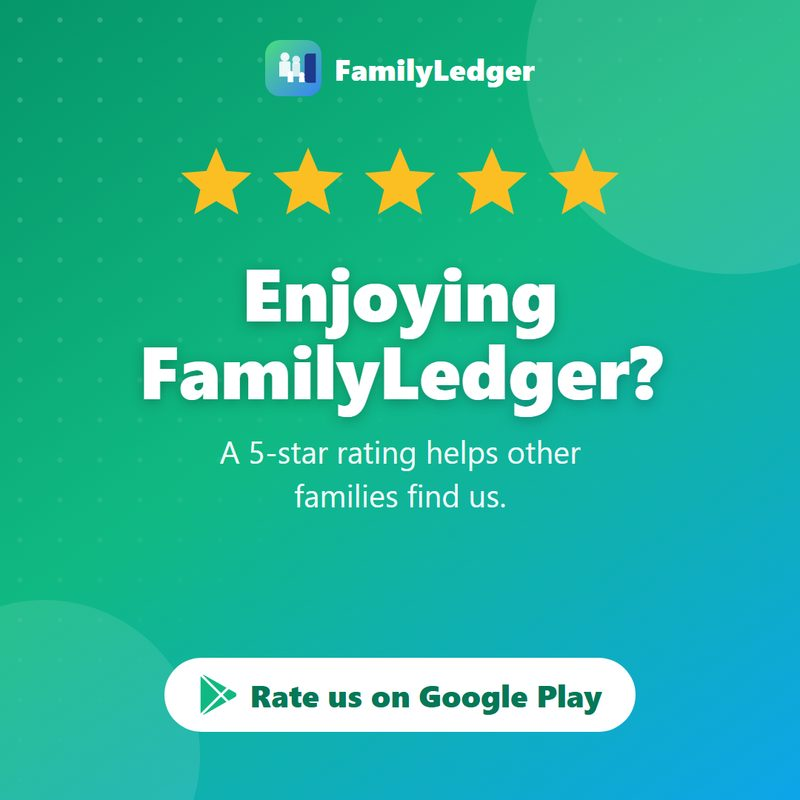
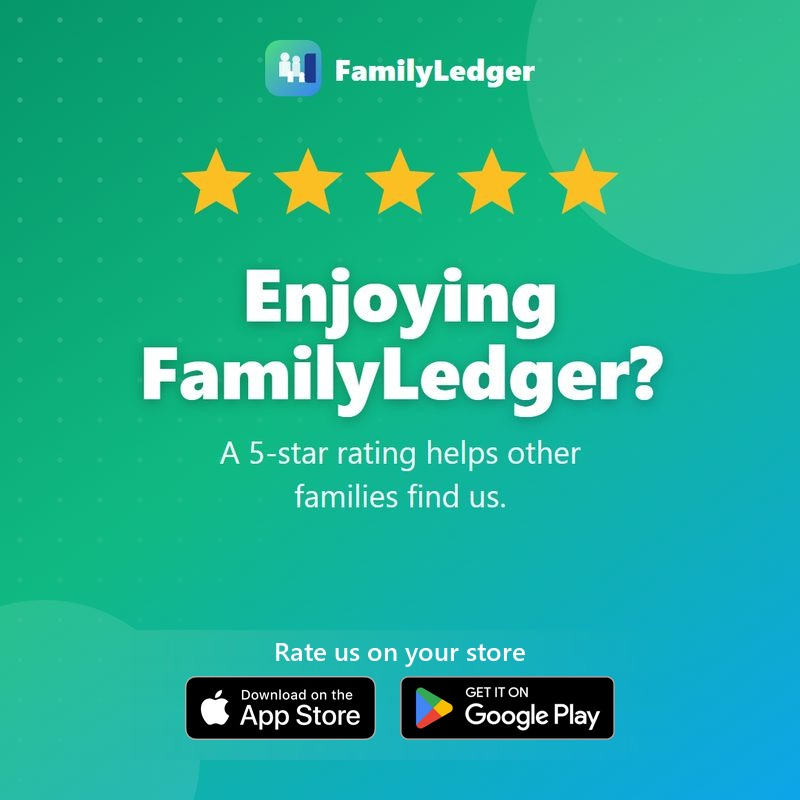
Rate-us broadcast: add App Store alongside Google Play (picture, message, store-aware picture link, iOS rating fallback); to-do/habit: choose notification or alarm for habits

Changed region(s): [[0.1875, 0.7812, 0.8125, 0.9375]]

diff --git a/src/screens/ToDoList.tsx b/src/screens/ToDoList.tsx
@@ -20,6 +20,7 @@ import HabitTracker from '../components/HabitTracker';
 import FrequencyPicker from '../components/FrequencyPicker';
 import {
   FrequencyConfig,
+  nextOccurrenceAfter,
   firstOccurrenceOnOrAfter,
   describeFrequency,
   frequencyConfigFromFields,
@@ -246,6 +247,23 @@ export default function ToDoList() {
     const alarms: { id: string; text: string; reminderAt: string }[] = [];
     myTodosValue.docs.forEach((d) => {
       const todo = { id: d.id, ...d.data() } as any;
+      // A personal habit set to "alarm": it rings a set time before each occurrence. The next two weeks of occurrences are armed at once, so
+      // it keeps ringing even if the app is not opened (the server's habit push is skipped for these, see processHabitReminders).
+      const habitAlarm = todo.recurring && todo.recurringActive !== false && !todo.groupId && todo.reminderStyle === 'alarm'
+        && todo.reminderOffsetMinutes && todo.nextRunDate;
+      if (habitAlarm) {
+        cancelLocalTodoReminder(todo.id);
+        let occ = new Date(todo.nextRunDate);
+        for (let i = 0; i < 14; i++) {
+          if (!(i === 0 && todo.done)) { // this occurrence is already ticked off: no reminder for it
+            const at = new Date(occ.getTime() - todo.reminderOffsetMinutes * 60000).toISOString();
+            if (canRingTodoAlarm()) alarms.push({ id: `${todo.id}_h${i}`, text: todo.text, reminderAt: at });
+            else if (new Date(at).getTime() > Date.now()) { scheduleLocalTodoReminder({ id: todo.id, text: todo.text, reminderAt: at }); break; }
+          }
+          occ = nextOccurrenceAfter(todo as FrequencyConfig, occ);
+        }
+        return;
+      }
       const eligible = !todo.done && !todo.groupId && todo.reminderAt;
       if (eligible && todo.reminderStyle === 'alarm' && canRingTodoAlarm()) {
         alarms.push({ id: todo.id, text: todo.text, reminderAt: todo.reminderAt });
@@ -258,6 +276,32 @@ export default function ToDoList() {
     });
     syncTodoAlarms(alarms);
   }, [myTodosValue]);
+
+  // how a reminder arrives: a quiet notification or an alarm that rings. Used for a to-do's reminder and for a habit's "remind me before".
+  const renderStyleChooser = () => (
+  <div className="mt-3 rounded-2xl bg-slate-50 p-2.5">
+    <p className="text-[10px] font-black uppercase tracking-[0.1em] text-slate-500 mb-1.5 px-0.5">How should it remind you?</p>
+    {groupId ? (
+      <p className="text-[11.5px] text-slate-600 px-0.5">A shared to-do reminds everyone with a notification. Alarms are for tasks that are just yours.</p>
+    ) : (
+      <>
+        <div className="grid grid-cols-2 gap-2">
+          <button type="button" onClick={() => setReminderStyle('notification')} className={clsx('rounded-xl border-2 px-3 py-2 text-left transition-all active:scale-95', reminderStyle === 'notification' ? 'border-[#22c1a5] bg-white' : 'border-transparent bg-white/60')}>
+            <span className="block text-sm font-black text-primary">🔔 Notification</span>
+            <span className="block text-[10.5px] text-slate-500 leading-snug">A quiet nudge on your phone</span>
+          </button>
+          <button type="button" onClick={() => setReminderStyle('alarm')} className={clsx('rounded-xl border-2 px-3 py-2 text-left transition-all active:scale-95', reminderStyle === 'alarm' ? 'border-orange-400 bg-orange-50' : 'border-transparent bg-white/60')}>
+            <span className="block text-sm font-black text-primary">⏰ Alarm</span>
+            <span className="block text-[10.5px] text-slate-500 leading-snug">Rings until you stop or snooze it</span>
+          </button>
+        </div>
+        {reminderStyle === 'alarm' && (
+          <p className="text-[11px] text-slate-600 mt-1.5 px-0.5">{canRingTodoAlarm() ? 'Rings like an alarm clock with Snooze and Dismiss, even when the phone is on silent.' : 'Alarms ring on Android phones. Here you will get a notification instead.'}</p>
+        )}
+      </>
+    )}
+  </div>
+  );
 
   const resetForm = () => {
     setEditingId(null);
@@ -340,7 +384,7 @@ export default function ToDoList() {
           dueDate,
           reminderSent: false,
           groupId: groupId || null,
-          reminderStyle: reminderAt && !groupId ? reminderStyle : null,
+          reminderStyle: (reminderAt || (recurring && reminderOffsetMinutes)) && !groupId ? reminderStyle : null,
           images,
           notes: trimmedNotes || null,
           ...recurringFields,
@@ -356,7 +400,7 @@ export default function ToDoList() {
           dueDate,
           reminderSent: false,
           groupId: groupId || null,
-          ...(reminderAt && !groupId ? { reminderStyle } : {}),
+          ...((reminderAt || (recurring && reminderOffsetMinutes)) && !groupId ? { reminderStyle } : {}),
           createdAt: new Date().toISOString(),
           ...(images.length > 0 ? { images } : {}),
           ...(trimmedNotes ? { notes: trimmedNotes } : {}),
@@ -780,28 +824,7 @@ export default function ToDoList() {
 
                       {/* how the reminder arrives */}
                       {remindKind !== 'none' && (
-                        <div className="mt-3 rounded-2xl bg-slate-50 p-2.5">
-                          <p className="text-[10px] font-black uppercase tracking-[0.1em] text-slate-500 mb-1.5 px-0.5">How should it remind you?</p>
-                          {groupId ? (
-                            <p className="text-[11.5px] text-slate-600 px-0.5">A shared to-do reminds everyone with a notification. Alarms are for tasks that are just yours.</p>
-                          ) : (
-                            <>
-                              <div className="grid grid-cols-2 gap-2">
-                                <button type="button" onClick={() => setReminderStyle('notification')} className={clsx('rounded-xl border-2 px-3 py-2 text-left transition-all active:scale-95', reminderStyle === 'notification' ? 'border-[#22c1a5] bg-white' : 'border-transparent bg-white/60')}>
-                                  <span className="block text-sm font-black text-primary">🔔 Notification</span>
-                                  <span className="block text-[10.5px] text-slate-500 leading-snug">A quiet nudge on your phone</span>
-                                </button>
-                                <button type="button" onClick={() => setReminderStyle('alarm')} className={clsx('rounded-xl border-2 px-3 py-2 text-left transition-all active:scale-95', reminderStyle === 'alarm' ? 'border-orange-400 bg-orange-50' : 'border-transparent bg-white/60')}>
-                                  <span className="block text-sm font-black text-primary">⏰ Alarm</span>
-                                  <span className="block text-[10.5px] text-slate-500 leading-snug">Rings until you stop or snooze it</span>
-                                </button>
-                              </div>
-                              {reminderStyle === 'alarm' && (
-                                <p className="text-[11px] text-slate-600 mt-1.5 px-0.5">{canRingTodoAlarm() ? 'Rings like an alarm clock with Snooze and Dismiss, even when the phone is on silent.' : 'Alarms ring on Android phones. Here you will get a notification instead.'}</p>
-                              )}
-                            </>
-                          )}
-                        </div>
+                        renderStyleChooser()
                       )}
                     </>
                   )}
@@ -854,6 +877,7 @@ export default function ToDoList() {
                               <option value="1440">{t('todo.remind1day')}</option>
                             </select>
                           </div>
+                          {reminderOffsetMinutes ? renderStyleChooser() : null}
                         </>
                       )}
                     </div>

diff --git a/src/components/BroadcastCard.tsx b/src/components/BroadcastCard.tsx
@@ -5,6 +5,8 @@ import BroadcastVideo from './BroadcastVideo';
 import BroadcastReactions from './BroadcastReactions';
 import BroadcastShare from './BroadcastShare';
 import type { BroadcastVia } from '../lib/broadcastTrack';
+import { isIosApp } from '../lib/platform';
+import { APP_STORE_URL } from '../lib/broadcastTemplates';
 
 // The broadcast window itself (title, message, video, pictures, follow buttons, Close). Shared by
 // BroadcastBanner (the automatic popup) and BroadcastReplay (watch again), so both look identical.
@@ -23,11 +25,11 @@ export type BroadcastContent = {
 const URL_PATTERN = /(https?:\/\/[^\s]+)/g;
 const OWN_HOST = 'familyledger.thirteenapps.com';
 
-function friendlyLabel(url: string): string {
+function friendlyLabel(url: string, rating = false): string {
   if (url.includes('instagram.com')) return 'Instagram: @family.ledger';
   if (url.includes('facebook.com')) return 'Facebook: Family Ledger';
   if (url.includes('play.google.com')) return 'Rate us on Google Play';
-  if (url.includes('apps.apple.com')) return 'Get FamilyLedger on the App Store';
+  if (url.includes('apps.apple.com')) return rating ? 'Rate us on the App Store' : 'Get FamilyLedger on the App Store';
   if (url.includes(OWN_HOST) && url.includes('/feedback')) return 'Send us your feedback';
   return url.replace(/^https?:\/\/(www\.)?/, '');
 }
@@ -56,7 +58,7 @@ export default function BroadcastCard({ broadcast, onClose, openLink, closeLabel
       return (
         <React.Fragment key={i}>
           <button type="button" onClick={() => openLink(url)} className="text-primary font-bold underline underline-offset-2 text-left break-all">
-            {friendlyLabel(url)}
+            {friendlyLabel(url, /rat(e|ing)/i.test(broadcast.title || ''))}
           </button>
           {trailing}
         </React.Fragment>
@@ -122,7 +124,9 @@ export default function BroadcastCard({ broadcast, onClose, openLink, closeLabel
         {broadcast.images && broadcast.images.length > 0 && (
           <div className="space-y-3">
             {broadcast.images.map((src, idx) => {
-              const link = broadcast.imageLinks?.[idx];
+              let link = broadcast.imageLinks?.[idx];
+              // a picture that links to a store opens the store of the phone it is shown on
+              if (link && isIosApp() && link.includes('play.google.com')) link = APP_STORE_URL;
               const picture = <img src={src} alt="" className="w-full rounded-2xl border border-border-subtle object-cover" />;
               // a picture with a link opens it when tapped
               return link ? (

diff --git a/src/lib/broadcastTemplates.ts b/src/lib/broadcastTemplates.ts
@@ -162,11 +162,12 @@ Team FamilyLedger`,
     id: 'rate',
     label: 'Ask for a rating',
     emoji: '⭐',
-    hint: 'Asks for a 5-star rating on Google Play, and for feedback first if something is wrong. One picture.',
+    hint: 'Asks for a 5-star rating on the App Store or Google Play, and for feedback first if something is wrong. One picture with both store badges; tapping it opens the store of the phone.',
     title: 'Enjoying FamilyLedger? Rate us ⭐',
-    message: `A 5-star rating on Google Play helps other families find us.
+    message: `A 5-star rating helps other families find us.
 
-⭐ ${PLAY_URL}
+🍎 iPhone: ${APP_STORE_URL}
+🤖 Android: ${PLAY_URL}
 
 It takes about 10 seconds. If something isn't right, please tell us first and we'll fix it quickly: ${FEEDBACK_URL}
 

diff --git a/server.ts b/server.ts
@@ -3030,6 +3030,8 @@ async function processHabitReminders(db: Firestore, habitDocs: FirebaseFirestore
     const todo = d.data();
     if (todo.recurringActive === false) return false;
     if (!todo.reminderOffsetMinutes || !todo.nextRunDate || todo.habitReminderSent) return false;
+    // a personal habit set to "alarm" rings on the phone itself (ToDoList.tsx arms it), so it gets no push on top
+    if (todo.reminderStyle === 'alarm' && !todo.groupId) return false;
     const dueAt = new Date(todo.nextRunDate);
     if (dueAt <= now) return false; // already due — processRecurringTodos owns this occurrence now
     return new Date(dueAt.getTime() - todo.reminderOffsetMinutes * 60000) <= now;

diff --git a/src/components/FeedbackRatingPrompt.tsx b/src/components/FeedbackRatingPrompt.tsx
@@ -73,6 +73,8 @@ export default function FeedbackRatingPrompt() {
         console.warn('requestReview unavailable, falling back to store listing:', err);
         if (Capacitor.getPlatform() === 'android') {
           window.open(PLAY_STORE_URL, '_blank');
+        } else if (Capacitor.getPlatform() === 'ios') {
+          window.open('https://apps.apple.com/in/app/familyledger-family-finance/id6804777430?action=write-review', '_blank');
         }
       }
       await recordShown({ hasRequestedAppReview: true });
